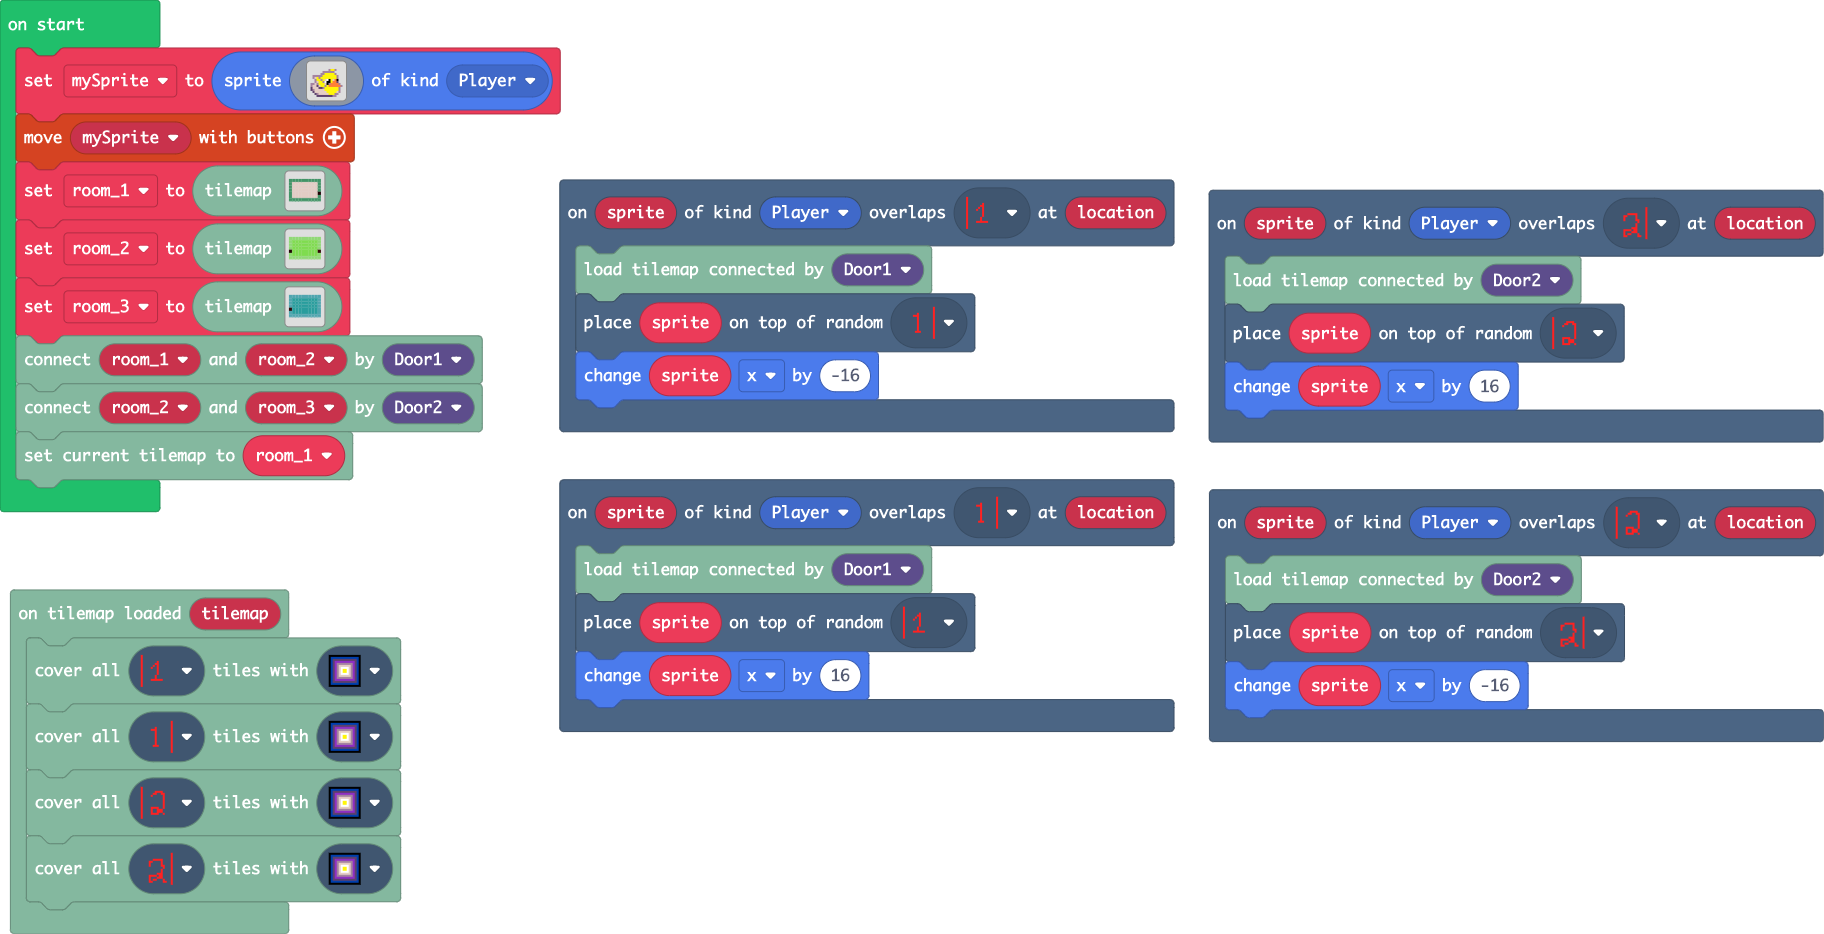
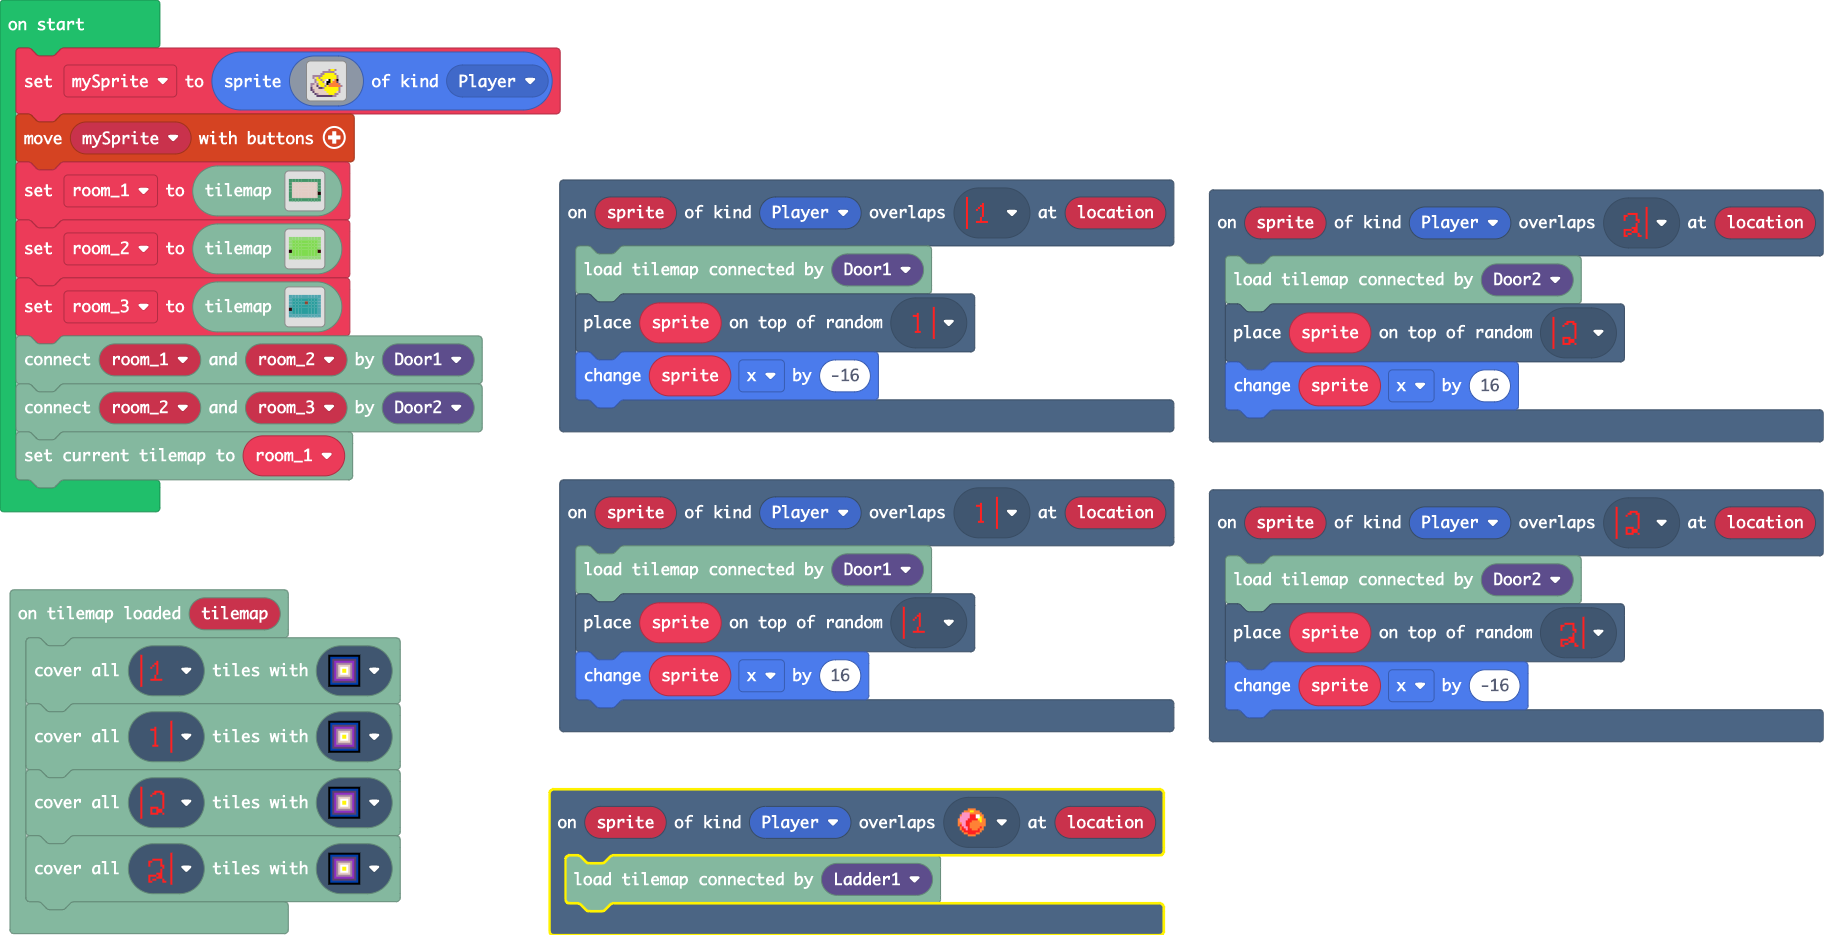
bug: loading connected tilemap that doesn't exist breaks game

diff --git a/main.ts b/main.ts
@@ -28,6 +28,9 @@ scene.onOverlapTile(SpriteKind.Player, myTiles.tile1, function (sprite, location
     tiles.placeOnRandomTile(sprite, myTiles.tile2)
     sprite.x += -16
 })
+scene.onOverlapTile(SpriteKind.Player, sprites.dungeon.collectibleRedCrystal, function (sprite, location) {
+    tiles.loadConnectedMap(ConnectionKind.Ladder1)
+})
 let mySprite = sprites.create(img`
     . . . . . . . . . . . . . . . . 
     . . . . . . . . . . . . . . . . 
@@ -65,7 +68,7 @@ let room_2 = tiles.createMap(tiles.createTilemap(hex`0a0007000202020202020202020
     2 . . . . . . . . 2 
     2 2 2 2 2 2 2 2 2 2 
     `, [myTiles.transparency16,sprites.castle.tileGrass1,sprites.castle.tileGrass2,myTiles.tile1,myTiles.tile3], TileScale.Sixteen))
[2 lines of base64/hex data omitted]
     2 2 2 2 2 2 2 2 2 2 
     2 . . . . . . . . 2 
     2 . . . . . . . . 2 
@@ -73,7 +76,7 @@ let room_3 = tiles.createMap(tiles.createTilemap(hex`0a0007000202020202020202020
     . . . . . . . . . 2 
     2 . . . . . . . . 2 
     2 2 2 2 2 2 2 2 2 2 
-    `, [myTiles.transparency16,sprites.castle.tileDarkGrass3,sprites.castle.tileDarkGrass2,myTiles.tile4], TileScale.Sixteen))
+    `, [myTiles.transparency16,sprites.castle.tileDarkGrass3,sprites.castle.tileDarkGrass2,myTiles.tile4,myTiles.tile5,sprites.dungeon.collectibleRedCrystal], TileScale.Sixteen))
 tiles.connectMapById(room_1, room_2, ConnectionKind.Door1)
 tiles.connectMapById(room_2, room_3, ConnectionKind.Door2)
 tiles.loadMap(room_1)
